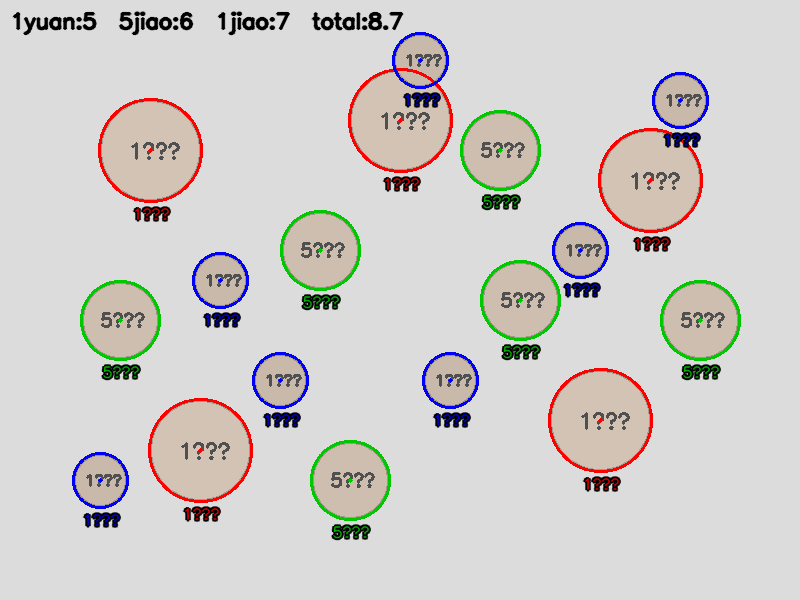
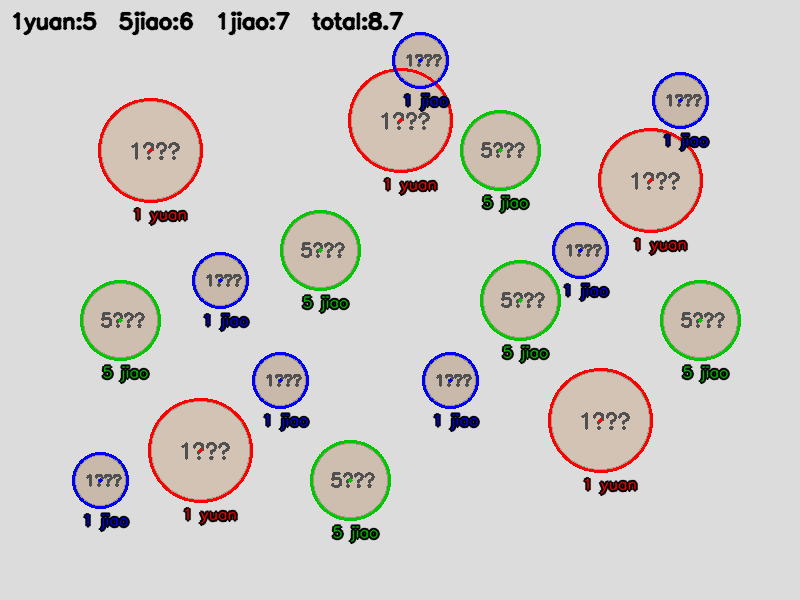
修复结果图里的中文变问号
putText 用的是 Hershey 字体，只有 ASCII 字形，之前把中文标签直接画进图里，
渲染出来是一串 ?。
- q02：硬币面值标签改成 1 jiao / 5 jiao / 1 yuan，控制台仍是中文
- q10：轨迹名改成 A/B/C，运动类型加一个 ASCII 版 parabola/sine/line，
  控制台仍输出中文说明；标签位置加边界夹取，起点贴边时不再画到画布外
重新编译运行，十题的数字结果不变

diff --git a/q10/main.cpp b/q10/main.cpp
@@ -80,7 +80,9 @@ static double polyFitRMSE(const vector<double>& U, const vector<double>& V,
 }
 
 struct Track {
-    string name;
+    string name;      // 图上用的短名，必须是 ASCII
+    string cn;        // 控制台用的中文名
+    string typeEn;    // 图上用的运动类型，必须是 ASCII
     Scalar color;
     vector<Point2d> prof;     // 分箱后的折线点 (u, v)
     bool sortX;
@@ -105,11 +107,13 @@ int main(int argc, char** argv) {
     Mat hsv;
     cvtColor(img, hsv, COLOR_BGR2HSV);
 
-    struct Spec { string name; int h1, h2; Scalar bgr; };
+    // putText 的 Hershey 字体只认 ASCII，中文会画成问号，所以 name 只有
+    // 字母，中文说明放在 cn 里，只用于控制台。
+    struct Spec { string name; string cn; int h1, h2; Scalar bgr; };
     vector<Spec> specs = {
-        {"A(红色)", 0,   10,  Scalar(0, 0, 255)},
-        {"B(蓝色)", 100, 130, Scalar(255, 0, 0)},
-        {"C(绿色)", 35,  85,  Scalar(0, 200, 0)},
+        {"A", "A(红色)", 0,   10,  Scalar(0, 0, 255)},
+        {"B", "B(蓝色)", 100, 130, Scalar(255, 0, 0)},
+        {"C", "C(绿色)", 35,  85,  Scalar(0, 200, 0)},
     };
 
     Mat out = img.clone();
@@ -130,7 +134,7 @@ int main(int argc, char** argv) {
         vector<Point> pts;
         findNonZero(keep, pts);
         if (pts.size() < 50) {
-            cerr << sp.name << " 轨迹点太少，跳过" << endl;
+            cerr << sp.cn << " 轨迹点太少，跳过" << endl;
             continue;
         }
 
@@ -166,6 +170,7 @@ int main(int argc, char** argv) {
 
         Track t;
         t.name = sp.name;
+        t.cn = sp.cn;
         t.color = sp.bgr;
         t.sortX = sortX;
         t.prof = prof;
@@ -229,18 +234,22 @@ int main(int argc, char** argv) {
         // ---------- 6. 判定运动类型 ----------
         if (t.lineRMSE < 3.0) {
             t.type = "直线运动";
+            t.typeEn = "line";
             t.detail = "一阶拟合残差只有 " + to_string((int)lround(t.lineRMSE)) + " px";
         } else if (cross >= 4 && t.paraRMSE > 0.6 * t.lineRMSE) {
             t.type = "正弦曲线运动";
+            t.typeEn = "sine";
             t.detail = "去直线趋势后 " + to_string(cross) + " 次穿过零线，振幅约 " +
                        to_string((int)lround(t.amp)) + " px，周期约 " +
                        to_string((int)lround(t.period)) + " px";
         } else if (t.paraRMSE < 0.5 * t.lineRMSE) {
             t.type = "抛物线运动";
+            t.typeEn = "parabola";
             t.detail = "二次拟合残差 " + to_string((int)lround(t.paraRMSE)) +
                        " px，远小于直线拟合的 " + to_string((int)lround(t.lineRMSE)) + " px";
         } else {
             t.type = "一般曲线运动";
+            t.typeEn = "curve";
             t.detail = "直线拟合残差 " + to_string((int)lround(t.lineRMSE)) + " px";
         }
 
@@ -270,9 +279,13 @@ int main(int argc, char** argv) {
         circle(out, Point((int)t.finish.x, (int)t.finish.y), 5, t.color, 2);
 
         char buf[160];
-        snprintf(buf, sizeof(buf), "%s %s L=%dpx", t.name.c_str(),
-                 t.type.c_str(), (int)lround(t.length));
+        snprintf(buf, sizeof(buf), "%s  %s  L=%d px", t.name.c_str(),
+                 t.typeEn.c_str(), (int)lround(t.length));
+        // 起点贴着图像边缘时标签会跑到画布外，夹到可见范围里
         Point tp((int)t.start.x - 20, (int)t.start.y - 12);
+        Size ts = getTextSize(buf, FONT_HERSHEY_SIMPLEX, 0.5, 3, nullptr);
+        tp.x = max(8, min(out.cols - ts.width - 8, tp.x));
+        tp.y = max(ts.height + 40, min(out.rows - 8, tp.y));
         putText(out, buf, tp, FONT_HERSHEY_SIMPLEX, 0.5, Scalar(0, 0, 0), 3, LINE_AA);
         putText(out, buf, tp, FONT_HERSHEY_SIMPLEX, 0.5, t.color, 1, LINE_AA);
     }
@@ -287,7 +300,7 @@ int main(int argc, char** argv) {
     // ---------- 8. 控制台报告 ----------
     cout << "检测到轨迹数量: " << tracks.size() << endl;
     for (auto& t : tracks) {
-        cout << "\n" << t.name << " 轨迹" << endl;
+        cout << "\n" << t.cn << " 轨迹" << endl;
         cout << "  起点 (" << (int)t.start.x << ", " << (int)t.start.y << ")"
              << "  终点 (" << (int)t.finish.x << ", " << (int)t.finish.y << ")" << endl;
         cout << "  运动类型: " << t.type << "（" << t.detail << "）" << endl;
@@ -307,25 +320,25 @@ int main(int argc, char** argv) {
 
     cout << "\n轨迹长度排序: ";
     for (size_t i = 0; i < idx.size(); ++i) {
-        cout << (i ? " > " : "") << tracks[idx[i]].name << "("
+        cout << (i ? " > " : "") << tracks[idx[i]].cn << "("
              << (int)lround(tracks[idx[i]].length) << ")";
     }
     cout << endl;
 
     const Track& top = tracks[idx[0]];
-    cout << "轨迹最长的物体: " << top.name << "，" << (int)lround(top.length) << " px" << endl;
+    cout << "轨迹最长的物体: " << top.cn << "，" << (int)lround(top.length) << " px" << endl;
     if (idx.size() > 1) {
         const Track& second = tracks[idx[1]];
         double diff = top.length - second.length;
         if (diff < 0.1 * top.length)
-            cout << "  （与第二长 " << second.name << " 只差 "
+            cout << "  （与第二长 " << second.cn << " 只差 "
                  << (int)lround(diff) << " px，两者几乎等长）" << endl;
     }
     cout << "竖直落差最大的是 ";
     int iv = 0;
     for (size_t i = 1; i < tracks.size(); ++i)
         if (tracks[i].vspan > tracks[iv].vspan) iv = (int)i;
-    cout << tracks[iv].name << "（" << (int)lround(tracks[iv].vspan) << " px）" << endl;
+    cout << tracks[iv].cn << "（" << (int)lround(tracks[iv].vspan) << " px）" << endl;
 
     string outPath = (argc > 2) ? argv[2] : "q10_result.png";
     imwrite(outPath, out);

diff --git a/q02/main.cpp b/q02/main.cpp
@@ -104,7 +104,11 @@ int main(int argc, char** argv) {
         order.push_back({centers.at<float>(i, 0), i});
     sort(order.begin(), order.end());
 
-    const char* names[3] = {"1角", "5角", "1元"};
+    // 注意：putText 用的是 Hershey 字体，只有 ASCII 字形，中文传进去会
+    // 原样画成一串问号。所以写进图里的标签一律用英文，控制台输出照旧
+    // 用中文（终端能正常显示）。
+    const char* names[3] = {"1 jiao", "5 jiao", "1 yuan"};
+    const char* namesCN[3] = {"1角", "5角", "1元"};
     const double values[3] = {0.1, 0.5, 1.0};
     const Scalar colors[3] = {Scalar(255, 0, 0),     // 1角 - 蓝
                               Scalar(0, 200, 0),     // 5角 - 绿
@@ -135,7 +139,7 @@ int main(int argc, char** argv) {
     // ---------- 3. 输出 ----------
     cout << "检出硬币总数: " << circles.size() << endl;
     for (int k = 2; k >= 0; --k)
-        cout << names[k] << ": " << count[k] << " 个（该档平均半径 "
+        cout << namesCN[k] << ": " << count[k] << " 个（该档平均半径 "
              << (int)order[k].first << " px）" << endl;
     cout << "总金额: " << fixed << setprecision(1) << total << " 元" << endl;
 
